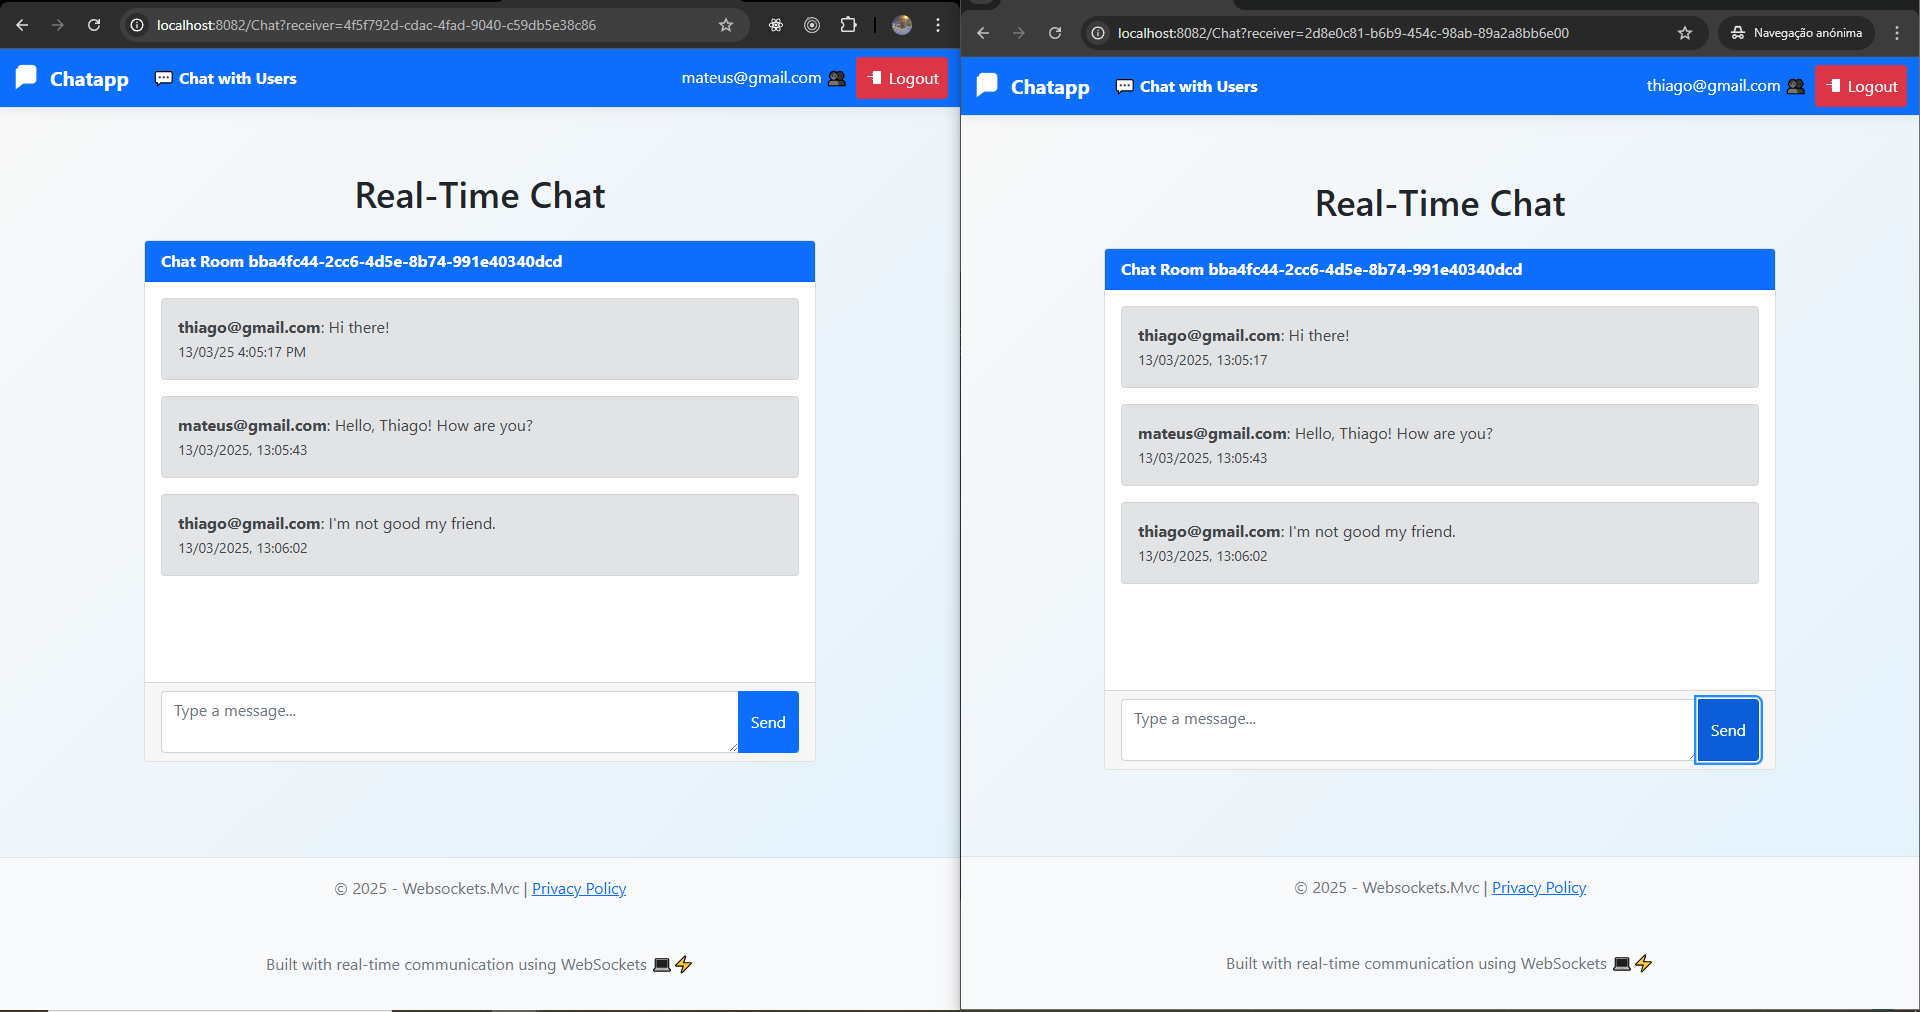
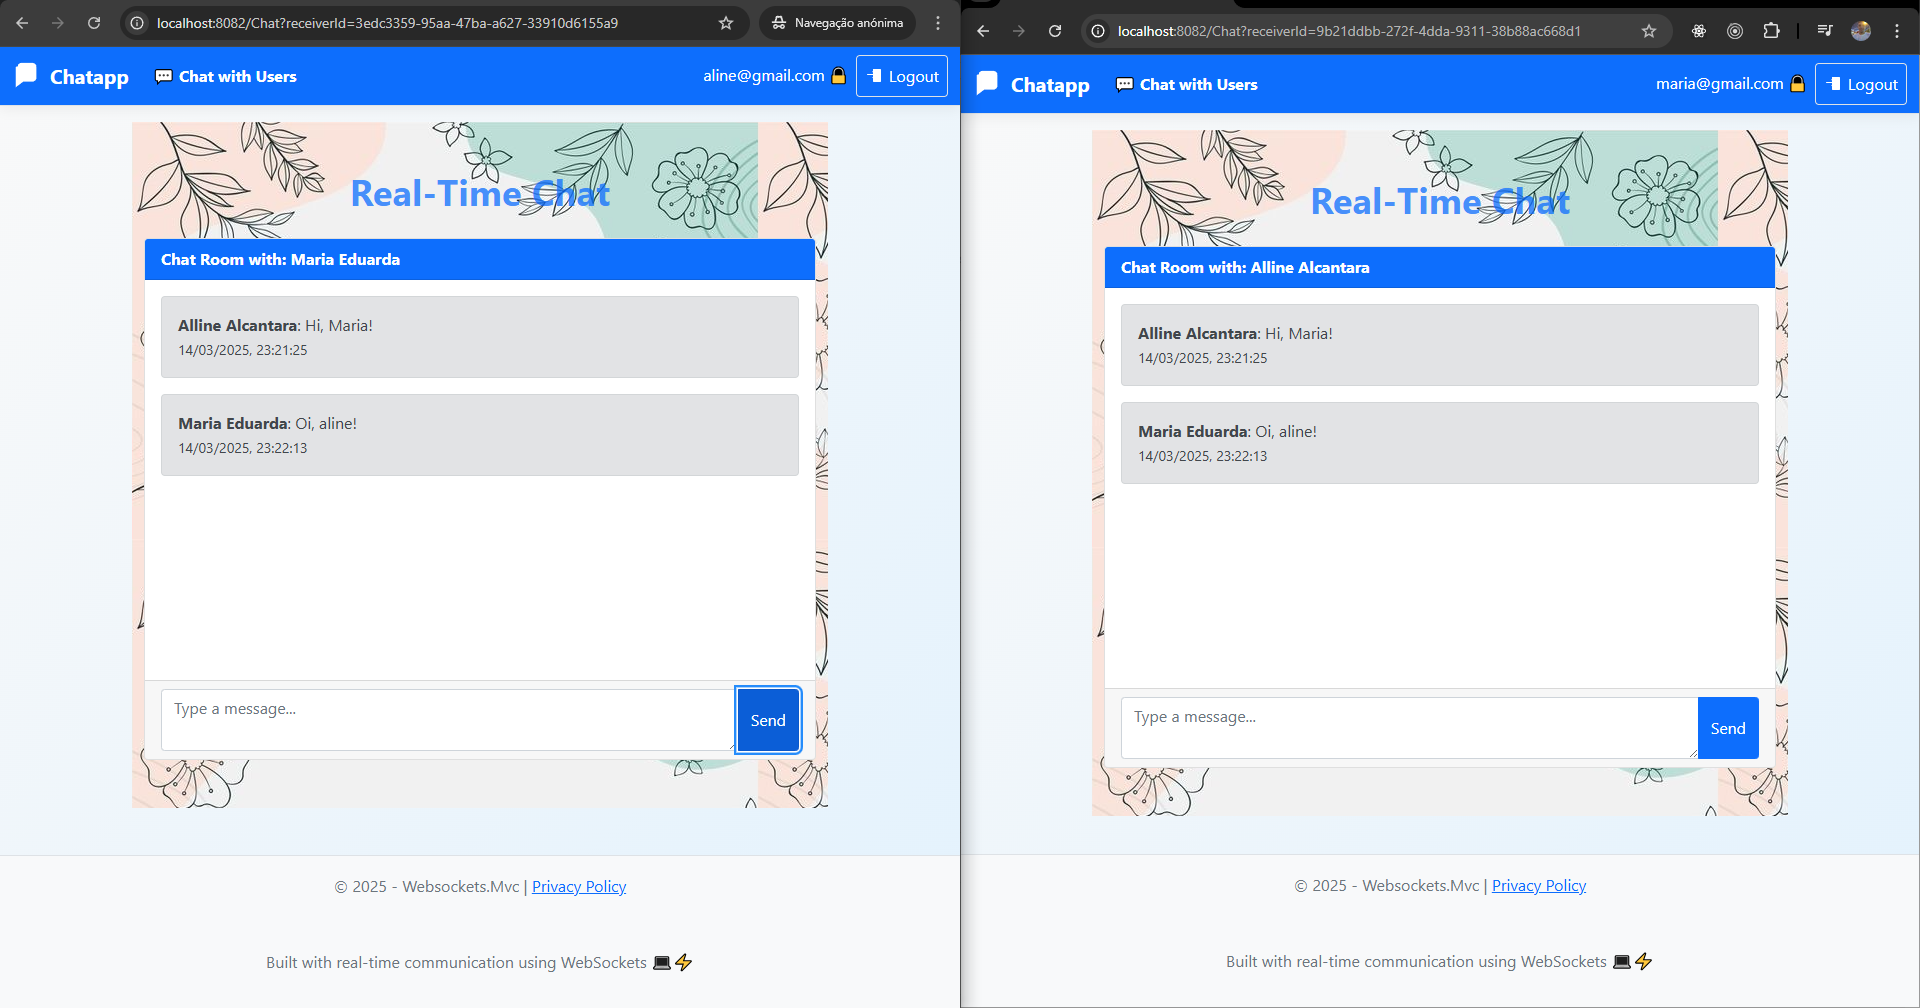
added active conversations manager

diff --git a/src/Websockets.Mvc/wwwroot/css/site.css b/src/Websockets.Mvc/wwwroot/css/site.css
@@ -21,3 +21,10 @@ body {
   margin-bottom: 60px;
   background: linear-gradient(135deg, #f9f9f9, #e3f2fd);
 }
+
+#bg-img {
+/*    background-repeat: no-repeat;
+    background-position: center;*/
+    background-image: url("/img/flower.jpg");
+    /*background-size: auto;*/
+}

diff --git a/src/Websockets.Mvc/Controllers/ChatController.cs b/src/Websockets.Mvc/Controllers/ChatController.cs
@@ -1,5 +1,4 @@
 using Microsoft.AspNetCore.Authorization;
-using Microsoft.AspNetCore.Identity;
 using Microsoft.AspNetCore.Mvc;
 using System.Net.WebSockets;
 using System.Text;
@@ -16,37 +15,48 @@ namespace Websockets.Mvc.Controllers
     public class ChatController : Controller
     {
         private readonly IChatRepository _chatRepository;
-        private readonly UserManager<IdentityUser> _userManager;
+        private readonly IUserInjection _userInjection;
         private readonly IChatConnectionManager _chatConnections;
         private readonly ILogger<ChatController> _logger;
+        private readonly IUserRepository _userRepository;
 
         public ChatController(IChatRepository chatRepository,
-                              UserManager<IdentityUser> userManager,
+                              IUserInjection userInjection,
                               IChatConnectionManager chatConnections,
-                              ILogger<ChatController> logger)
+                              ILogger<ChatController> logger,
+                              IUserRepository userRepository)
         {
             _chatRepository = chatRepository;
-            _userManager = userManager;
+            _userInjection = userInjection;
             _chatConnections = chatConnections;
             _logger = logger;
+            _userRepository = userRepository;
         }
 
-        public async Task<IActionResult> Index(Guid receiver)
+        public async Task<IActionResult> Index(Guid receiverId)
         {
-            var user = await _userManager.GetUserAsync(User);
-            var sender = Guid.Parse(user.Id);
+            var user = _userInjection.GetUserId();
+            var sender = await _userRepository.GetUser(user);
+            var receiver = await _userRepository.GetUser(receiverId);
 
-            var chat = await _chatRepository.GetChat(sender, receiver);
+            var chat = await _chatRepository.GetChatAsync(sender.Id, receiver.Id);
 
             if (chat == null)
             {
                 chat = new Chat([sender, receiver]);
-                await _chatRepository.Create(chat);
+                await _chatRepository.CreateAsync(chat);
             }
 
-            var model = chat.ToChatViewModel(user.Email);
+            var model = chat.ToChatViewModel(sender.Name, receiver.Name);
 
             return View(model);
+        }
+
+        [HttpGet("available-users")]
+        public async Task<IActionResult> AvailableUsers()
+        {
+            var users = await _userRepository.GetUsers();
+            return View(users);
         }
 
         [Route("websocket")]
@@ -100,7 +110,7 @@ namespace Websockets.Mvc.Controllers
         private async Task SaveMessageDb(Guid chat, string sender, string message)
         {
             var messageDb = new Message(sender, message);
-            await _chatRepository.AddMessageToChat(chat, messageDb);
+            await _chatRepository.AddMessageToChatAsync(chat, messageDb);
         }
 
         private async Task BroadcastMessage(Guid chat, string sender, string message)

diff --git a/src/Websockets.Mvc/Repository/ChatRepository.cs b/src/Websockets.Mvc/Repository/ChatRepository.cs
@@ -6,10 +6,11 @@ namespace Websockets.Mvc.Repository
 {
     public interface IChatRepository
     {
-        Task Create(Chat chat);
-        Task<Chat> GetChat(Guid id);
-        Task<Chat> GetChat(params Guid[] ids);
-        Task AddMessageToChat(Guid chatId, Message message);
+        Task CreateAsync(Chat chat);
+        Task<Chat> GetChatAsync(Guid chat);
+        Task<Chat> GetChatAsync(params Guid[] users);
+        Task AddMessageToChatAsync(Guid chat, Message message);
+        Task<IEnumerable<Chat>> GetChatsAsync(Guid user);
     }
 
     public class ChatRepository : IChatRepository
@@ -21,34 +22,41 @@ namespace Websockets.Mvc.Repository
             _chatCollection = factory.GetCollection<Chat>(MongoTableFactory.CHAT_COLLECTION);
         }
 
-        public async Task Create(Chat chat)
+        public async Task CreateAsync(Chat chat)
         {
             await _chatCollection.InsertOneAsync(chat);
         }
 
-        public async Task<Chat> GetChat(Guid id)
+        public async Task<Chat> GetChatAsync(Guid id)
         {
             return await _chatCollection.Find(c => c.Id == id).FirstOrDefaultAsync();
         }
 
-        public async Task<Chat> GetChat(params Guid[] ids)
+        /* Get chat that contain the users (ids) */
+        public async Task<Chat> GetChatAsync(params Guid[] ids)
         {
-            var filter = Builders<Chat>.Filter.And(
-                Builders<Chat>.Filter.Size("Users", ids.Length),
-                (ids.Distinct().Count() == 1)
-                    ? Builders<Chat>.Filter.Eq("Users", ids)
-                    : Builders<Chat>.Filter.All("Users", ids)
+            var filters = ids.Select(id => Builders<Chat>.Filter.ElemMatch(c => c.Users, user => user.Id == id));
+
+            var combinedFilter = Builders<Chat>.Filter.And(
+                Builders<Chat>.Filter.Size(c => c.Users, ids.Length),
+                Builders<Chat>.Filter.And(filters)
             );
 
-            return await _chatCollection.Find(filter).Limit(1).FirstOrDefaultAsync();
+            return await _chatCollection.Find(combinedFilter).Limit(1).FirstOrDefaultAsync();
         }
 
-        public async Task AddMessageToChat(Guid chatId, Message message)
+        public async Task AddMessageToChatAsync(Guid chatId, Message message)
         {
             var filter = Builders<Chat>.Filter.Eq(c => c.Id, chatId);
             var update = Builders<Chat>.Update.Push(c => c.Messages, message);
 
             await _chatCollection.UpdateOneAsync(filter, update);
+        }
+
+        public async Task<IEnumerable<Chat>> GetChatsAsync(Guid user)
+        {
+            var chats = await _chatCollection.Find(c => c.Users.Any(u => u.Id == user)).ToListAsync();
+            return chats;
         }
     }
 }

diff --git a/src/Websockets.Mvc/Controllers/AuthenticationController.cs b/src/Websockets.Mvc/Controllers/AuthenticationController.cs
@@ -1,6 +1,7 @@
 using Microsoft.AspNetCore.Identity;
 using Microsoft.AspNetCore.Mvc;
-using Microsoft.EntityFrameworkCore;
+using Websockets.Mvc.Models;
+using Websockets.Mvc.Repository;
 using Websockets.Mvc.ViewModels;
 
 namespace Websockets.Mvc.Controllers
@@ -9,11 +10,15 @@ namespace Websockets.Mvc.Controllers
     {
         private readonly SignInManager<IdentityUser> _signInManager;
         private readonly UserManager<IdentityUser> _userManager;
+        private readonly IUserRepository _userRepository;
 
-        public AuthenticationController(SignInManager<IdentityUser> signInManager, UserManager<IdentityUser> userManager)
+        public AuthenticationController(SignInManager<IdentityUser> signInManager,
+                                        UserManager<IdentityUser> userManager,
+                                        IUserRepository userRepository)
         {
             _signInManager = signInManager;
             _userManager = userManager;
+            _userRepository = userRepository;
         }
 
 
@@ -42,7 +47,7 @@ namespace Websockets.Mvc.Controllers
                 }
                 return View(model);
             }
-
+            await _userRepository.AddUserAsync(new User(Guid.Parse(user.Id), model.Name, model.Email));
             await _signInManager.SignInAsync(user, isPersistent: false);
 
             return LocalRedirect(returnUrl);
@@ -85,16 +90,6 @@ namespace Websockets.Mvc.Controllers
             await _signInManager.SignOutAsync();
             if (string.IsNullOrEmpty(returnUrl)) return RedirectToAction("Index", "Home");
             return LocalRedirect(returnUrl);
-        }
-
-        [HttpGet]
-        public async Task<IActionResult> Users()
-        {
-            if (!_signInManager.IsSignedIn(User)) return RedirectToAction("Login", "Authentication", new { ReturnUrl = Request.Path });
-
-            var users = await _userManager.Users.ToListAsync();
-
-            return View(users);
         }
     }
 }

diff --git a/src/Websockets.Mvc/Program.cs b/src/Websockets.Mvc/Program.cs
@@ -17,9 +17,7 @@ namespace Websockets.Mvc
             var builder = WebApplication.CreateBuilder(args);
             BsonSerializer.RegisterSerializer(new GuidSerializer(GuidRepresentation.Standard));
             builder.Services.AddSqlServer<ApplicationDbContext>(builder.Configuration.GetConnectionString("sqlserver"));
-            builder.Services.AddIdentity<IdentityUser, IdentityRole>()
-                .AddEntityFrameworkStores<ApplicationDbContext>()
-                .AddDefaultTokenProviders();
+            builder.Services.AddIdentity<IdentityUser, IdentityRole>().AddEntityFrameworkStores<ApplicationDbContext>().AddDefaultTokenProviders();
             builder.Services.ConfigureApplicationCookie(options =>
             {
                 options.LoginPath = "/Authentication/Login";
@@ -29,6 +27,8 @@ namespace Websockets.Mvc
             builder.Services.AddSingleton<MongoTableFactory>();
             builder.Services.AddSingleton<IChatConnectionManager, ChatConnectionManager>();
             builder.Services.AddScoped<IChatRepository, ChatRepository>();
+            builder.Services.AddScoped<IUserInjection, UserInjection>();
+            builder.Services.AddScoped<IUserRepository, UserRepository>();
 
             var app = builder.Build();
 

diff --git a/src/Websockets.Mvc/Extensions/ConversationsViewComponent.cs b/src/Websockets.Mvc/Extensions/ConversationsViewComponent.cs
@@ -1,0 +1,35 @@
+using Microsoft.AspNetCore.Mvc;
+using Websockets.Mvc.Configuration;
+using Websockets.Mvc.Repository;
+
+namespace Websockets.Mvc.Extensions
+{
+    public class ConversationsViewComponent : ViewComponent
+    {
+        private readonly IChatRepository _chatRepository;
+        private readonly IUserInjection _userInjection;
+
+        public ConversationsViewComponent(IChatRepository chatRepository, IUserInjection userInjection)
+        {
+            _chatRepository = chatRepository;
+            _userInjection = userInjection;
+        }
+
+        public async Task<IViewComponentResult> InvokeAsync()
+        {
+            var userId = _userInjection.GetUserId();
+            var chats = await _chatRepository.GetChatsAsync(userId);
+
+            foreach (var chat in chats)
+            {
+                var firstUser = chat.Users[0];
+                chat.Users = chat.Users.Where(user => user.Id != userId).ToArray();
+
+                if (chat.Users.Length == 0)
+                    chat.Users = [firstUser];
+            }
+
+            return View(chats.Reverse());
+        }
+    }
+}

diff --git a/src/Websockets.Mvc/Repository/UserRepository.cs b/src/Websockets.Mvc/Repository/UserRepository.cs
@@ -1,0 +1,38 @@
+using MongoDB.Driver;
+using Websockets.Mvc.Factories;
+using Websockets.Mvc.Models;
+
+namespace Websockets.Mvc.Repository
+{
+    public interface IUserRepository
+    {
+        Task AddUserAsync(User user);
+        Task<User> GetUser(Guid id);
+        Task<IEnumerable<User>> GetUsers();
+    }
+
+    public class UserRepository : IUserRepository
+    {
+        private readonly IMongoCollection<User> _userCollection;
+
+        public UserRepository(MongoTableFactory factory)
+        {
+            _userCollection = factory.GetCollection<User>(MongoTableFactory.USER_COLLECTION);
+        }
+
+        public async Task AddUserAsync(User user)
+        {
+            await _userCollection.InsertOneAsync(user);
+        }
+
+        public async Task<User> GetUser(Guid id)
+        {
+            return await _userCollection.Find(u => u.Id == id).FirstOrDefaultAsync();
+        }
+
+        public async Task<IEnumerable<User>> GetUsers()
+        {
+            return await _userCollection.Find(_ => true).ToListAsync();
+        }
+    }
+}

diff --git a/src/Websockets.Mvc/Configuration/UserInjection.cs b/src/Websockets.Mvc/Configuration/UserInjection.cs
@@ -1,0 +1,35 @@
+using System.Security.Claims;
+
+namespace Websockets.Mvc.Configuration
+{
+    public interface IUserInjection
+    {
+        Guid GetUserId();
+        string GetUserEmail();
+        bool IsAuthenticated();
+    }
+    public class UserInjection : IUserInjection
+    {
+        private readonly IHttpContextAccessor _accessor;
+
+        public UserInjection(IHttpContextAccessor httpContext)
+        {
+            _accessor = httpContext;
+        }
+
+        public bool IsAuthenticated()
+        {
+            return _accessor.HttpContext.User.Identity.IsAuthenticated;
+        }
+
+        public string GetUserEmail()
+        {
+            return IsAuthenticated() ? _accessor.HttpContext.User.Claims.FirstOrDefault(x => x.Type == ClaimTypes.Email)?.Value : "";
+        }
+
+        public Guid GetUserId()
+        {
+            return IsAuthenticated() ? Guid.Parse(_accessor.HttpContext.User.Claims.FirstOrDefault(x => x.Type == ClaimTypes.NameIdentifier)?.Value) : Guid.Empty;
+        }
+    }
+}

diff --git a/src/Websockets.Mvc/Extensions/ModelConverter.cs b/src/Websockets.Mvc/Extensions/ModelConverter.cs
@@ -5,7 +5,7 @@ namespace Websockets.Mvc.Extensions
 {
     public static class ModelConverter
     {
-        public static ChatViewModel ToChatViewModel(this Chat chat, string sender = null)
+        public static ChatViewModel ToChatViewModel(this Chat chat, string sender, string receiver)
         {
             return new ChatViewModel()
             {
@@ -13,6 +13,7 @@ namespace Websockets.Mvc.Extensions
                 Messages = chat.Messages,
                 Timestamp = chat.Timestamp,
                 Sender = sender,
+                Receiver = receiver
             };
         }
     }

diff --git a/src/Websockets.Mvc/Models/Chat.cs b/src/Websockets.Mvc/Models/Chat.cs
@@ -2,11 +2,11 @@
 {
     public class Chat : Entity
     {
-        public Guid[] Users { get; set; }
+        public User[] Users { get; set; }
         public IEnumerable<Message> Messages { get; set; }
         public DateTime Timestamp { get; set; }
 
-        public Chat(Guid[] users)
+        public Chat(User[] users)
         {
             Users = users;
             Messages = [];

diff --git a/src/Websockets.Mvc/Models/User.cs b/src/Websockets.Mvc/Models/User.cs
@@ -1,0 +1,14 @@
+namespace Websockets.Mvc.Models
+{
+    public class User : Entity
+    {
+        public string Name { get; set; }
+        public string Email { get; set; }
+
+        public User(Guid guid, string name, string email) : base(guid)
+        {
+            Name = name;
+            Email = email;
+        }
+    }
+}

diff --git a/src/Websockets.Mvc/ViewModels/RegisterViewModel.cs b/src/Websockets.Mvc/ViewModels/RegisterViewModel.cs
@@ -5,6 +5,10 @@ namespace Websockets.Mvc.ViewModels
     public class RegisterViewModel
     {
         [Required]
+        [Display(Name = "Name")]
+        public string Name { get; set; }
+
+        [Required]
         [EmailAddress]
         [Display(Name = "Email")]
         public string Email { get; set; }
